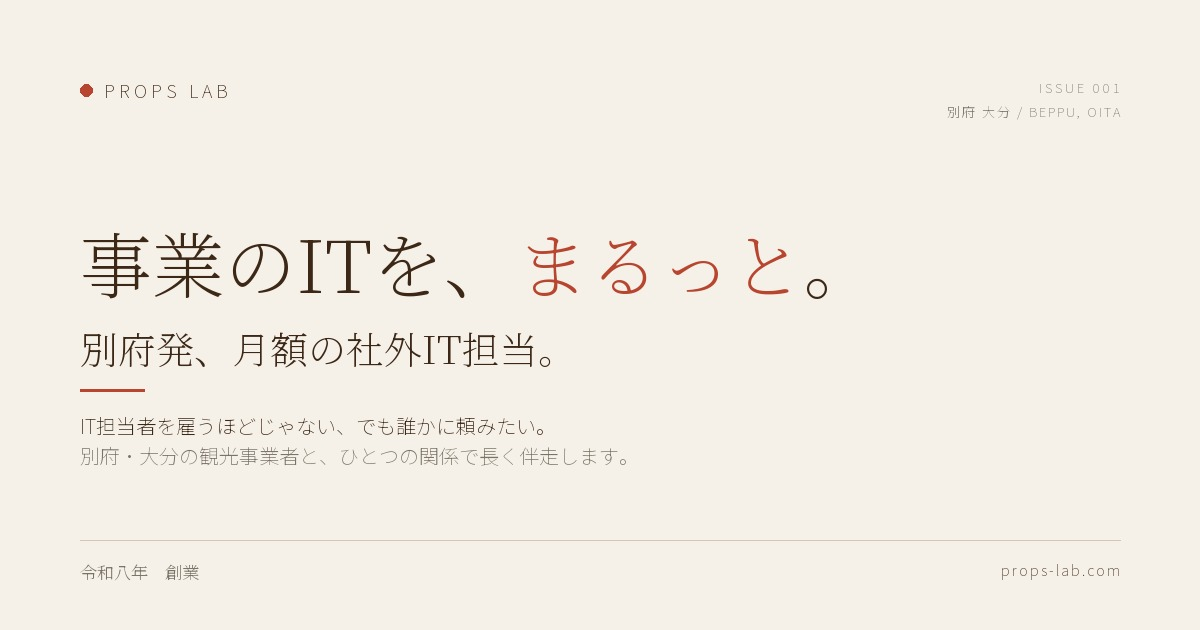
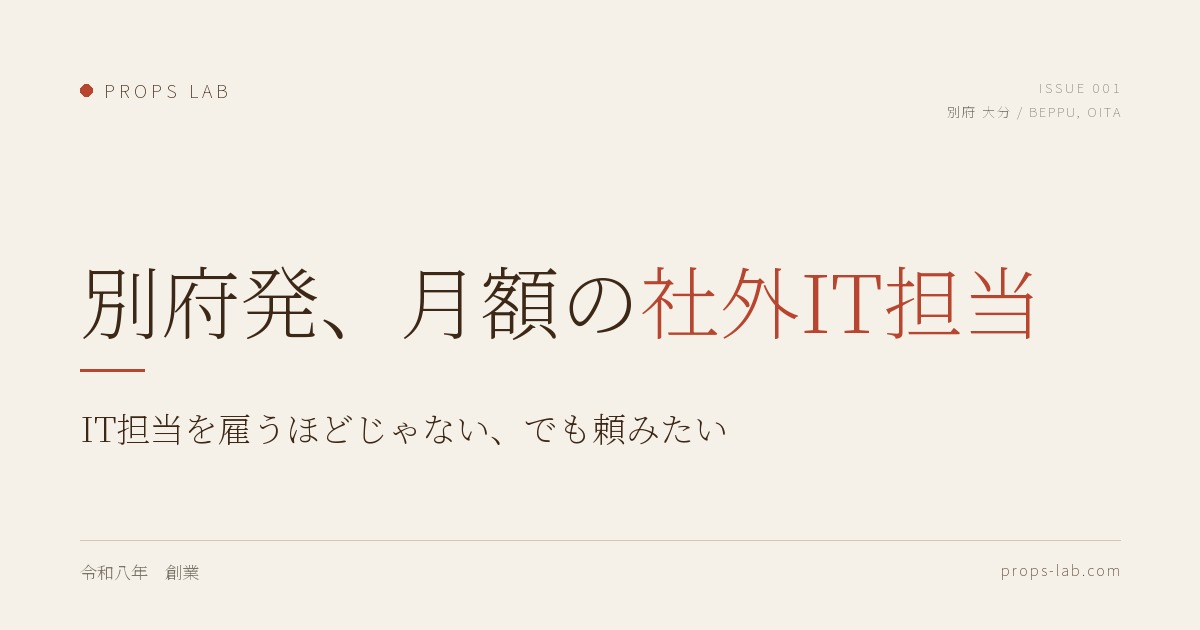
ヒーロー＆OGPを最小構成に絞る(まるっと/事業のITを 削除)
ヒーローの2行+lead3行 → H1 1行+lead 1行のミニマル構成に。
- H1: 別府発、月額の社外IT担当(句点なし)
- lead: IT担当を雇うほどじゃない、でも頼みたい(句点なし)
- 「事業のITを、まるっと。」「ホームページ制作から〜」「別府発、九州の〜」を削除
- OGP画像: 大見出し「別府発、月額の社外IT担当」+ サブ「IT担当を雇うほどじゃない、でも頼みたい」
- og:title / twitter:title をシンプル化

Changed region(s): [[0.0617, 0.3619, 0.8633, 0.6333], [0.0617, 0.6635, 0.5858, 0.754]]

diff --git a/index.html b/index.html
@@ -9,7 +9,7 @@
 
 <!-- Open Graph -->
 <meta property="og:type" content="website" />
-<meta property="og:title" content="Props Lab — 別府・大分の観光事業者に、月額で伴走するIT顧問を。" />
+<meta property="og:title" content="Props Lab — 別府発、月額の社外IT担当" />
 <meta property="og:description" content="別府・大分を中心に、九州の宿泊・飲食・観光事業者へオンライン対応。ホームページ制作、月額IT顧問、AI活用支援まで、ひとつの関係で長く伴走します。" />
 <meta property="og:url" content="https://props-lab.com/" />
 <link rel="canonical" href="https://props-lab.com/" />
@@ -20,7 +20,7 @@
 
 <!-- Twitter Card -->
 <meta name="twitter:card" content="summary_large_image" />
-<meta name="twitter:title" content="Props Lab — 別府・大分の観光事業者に、月額で伴走するIT顧問を。" />
+<meta name="twitter:title" content="Props Lab — 別府発、月額の社外IT担当" />
 <meta name="twitter:description" content="別府・大分を中心に、九州の宿泊・飲食・観光事業者へオンライン対応。ホームページ制作、月額IT顧問、AI活用支援まで。" />
 <meta name="twitter:image" content="https://props-lab.com/assets/ogp.jpg" />
 
@@ -495,13 +495,10 @@
     <p class="hero__era">令和八年 　創業</p>
 
     <h1 class="hero__title">
-      <span class="hero__title-line">事業のITを、まるっと。</span>
-      <span class="hero__title-line">別府発、月額の<span class="accent">社外IT担当</span>。</span>
+      <span class="hero__title-line">別府発、月額の<span class="accent">社外IT担当</span></span>
     </h1>
     <p class="hero__lead">
-      <span class="strong">IT担当者を雇うほどじゃない、でも誰かに頼みたい。</span><br/>
-      ホームページ制作から日々のIT相談まで、月額制で引き受けます。<br/>
-      別府発、九州の観光事業者と、ひとつの関係で長く続けます。
+      <span class="strong">IT担当を雇うほどじゃない、でも頼みたい</span>
     </p>
 
     <div class="btn-row">

diff --git a/scripts/generate_ogp.py b/scripts/generate_ogp.py
@@ -69,35 +69,28 @@ def main():
     draw_spaced(d, (W - 80 - pw, 104), place_text, fr_jp, TEXT_SUB, spacing=2)
 
     # ── Main headline (left zone) ────────────────────────
-    f_h1 = font(F_SERIF, 72)
+    f_h1 = font(F_SERIF, 80)
     headline_x = 80
-    headline_y1 = 210
+    headline_y1 = 240
 
-    # Line 1: "事業のITを、まるっと。" with red on "まるっと"
-    parts1 = [
-        ("事業のITを、", TEXT_MAIN),
-        ("まるっと",   ACCENT_RED),
-        ("。",         TEXT_MAIN),
+    # Big headline: "別府発、月額の社外IT担当" with red on "社外IT担当"
+    parts = [
+        ("別府発、月額の", TEXT_MAIN),
+        ("社外IT担当",   ACCENT_RED),
     ]
     cx = headline_x
-    for s, color in parts1:
+    for s, color in parts:
         d.text((cx, headline_y1), s, font=f_h1, fill=color)
         cx += d.textlength(s, font=f_h1)
 
-    # Line 2: subhead "別府発、月額の社外IT担当。"
-    f_h2 = font(F_SERIF, 38)
-    headline_y2 = headline_y1 + 110
-    d.text((headline_x, headline_y2), "別府発、月額の社外IT担当。", font=f_h2, fill=TEXT_MAIN)
-
-    # Short red accent rule under the headline group
-    rule_y = headline_y2 + 70
+    # Short red accent rule under the headline
+    rule_y = headline_y1 + 130
     d.line([(headline_x, rule_y), (headline_x + 64, rule_y)], fill=ACCENT_RED, width=3)
 
-    # Caption (sans)
-    f_sub = font(F_SANS, 20)
-    sub_y = rule_y + 24
-    d.text((headline_x, sub_y), "IT担当者を雇うほどじゃない、でも誰かに頼みたい。", font=f_sub, fill=TEXT_MAIN)
-    d.text((headline_x, sub_y + 30), "別府・大分の観光事業者と、ひとつの関係で長く伴走します。", font=f_sub, fill=TEXT_SUB)
+    # Sub (痛点)
+    f_sub = font(F_SERIF, 34)
+    sub_y = rule_y + 32
+    d.text((headline_x, sub_y), "IT担当を雇うほどじゃない、でも頼みたい", font=f_sub, fill=TEXT_MAIN)
 
     # ── Footer row ────────────────────────────────────────
     f_foot = font(F_SANS, 14)
